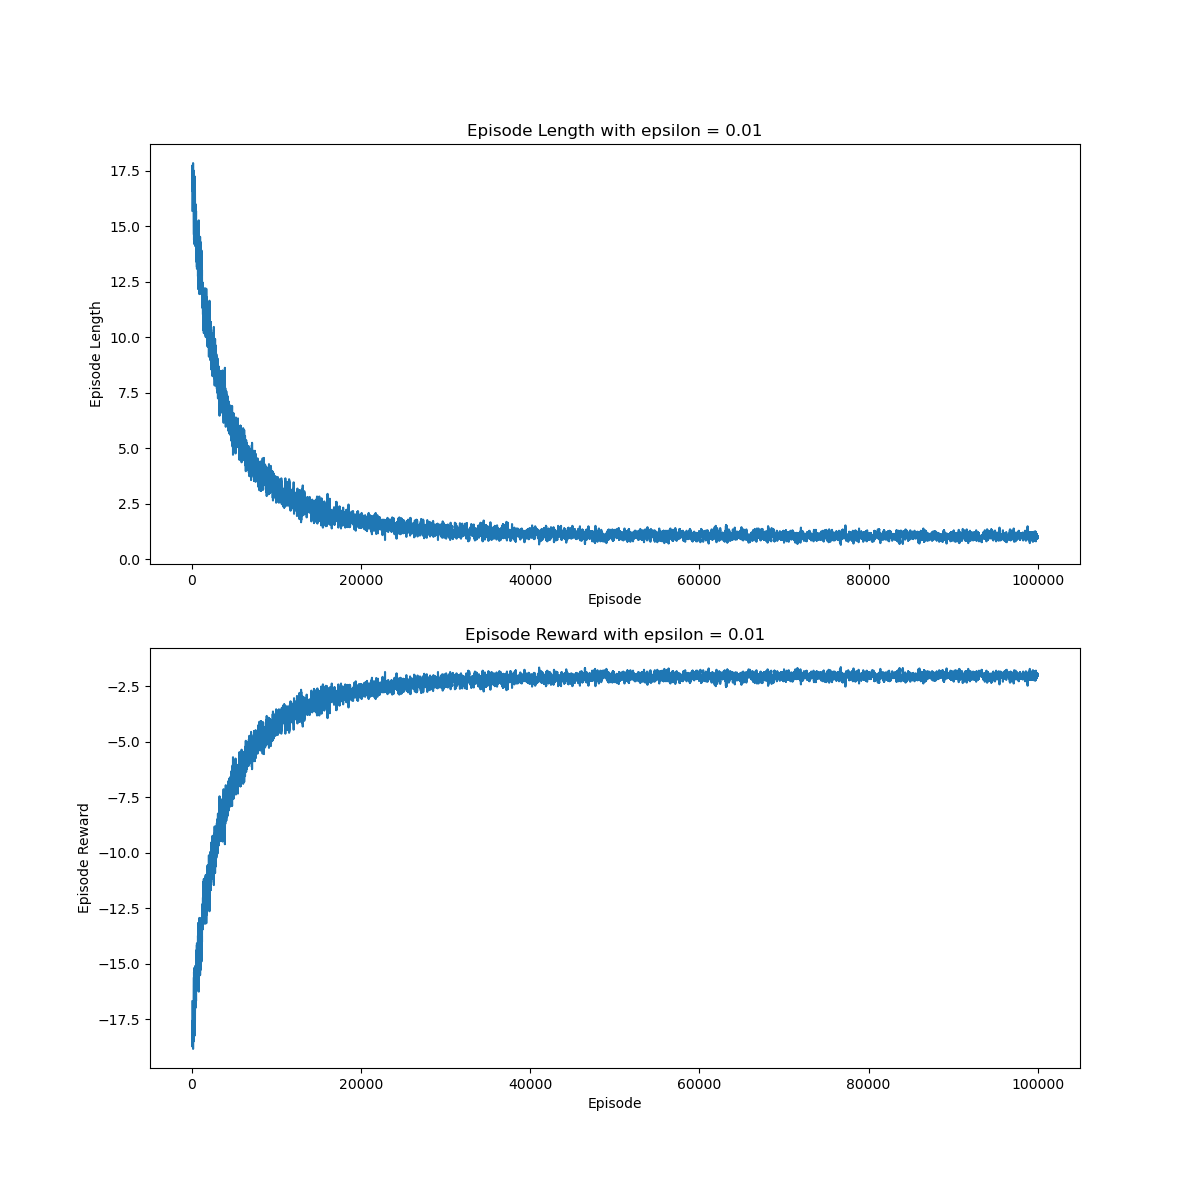
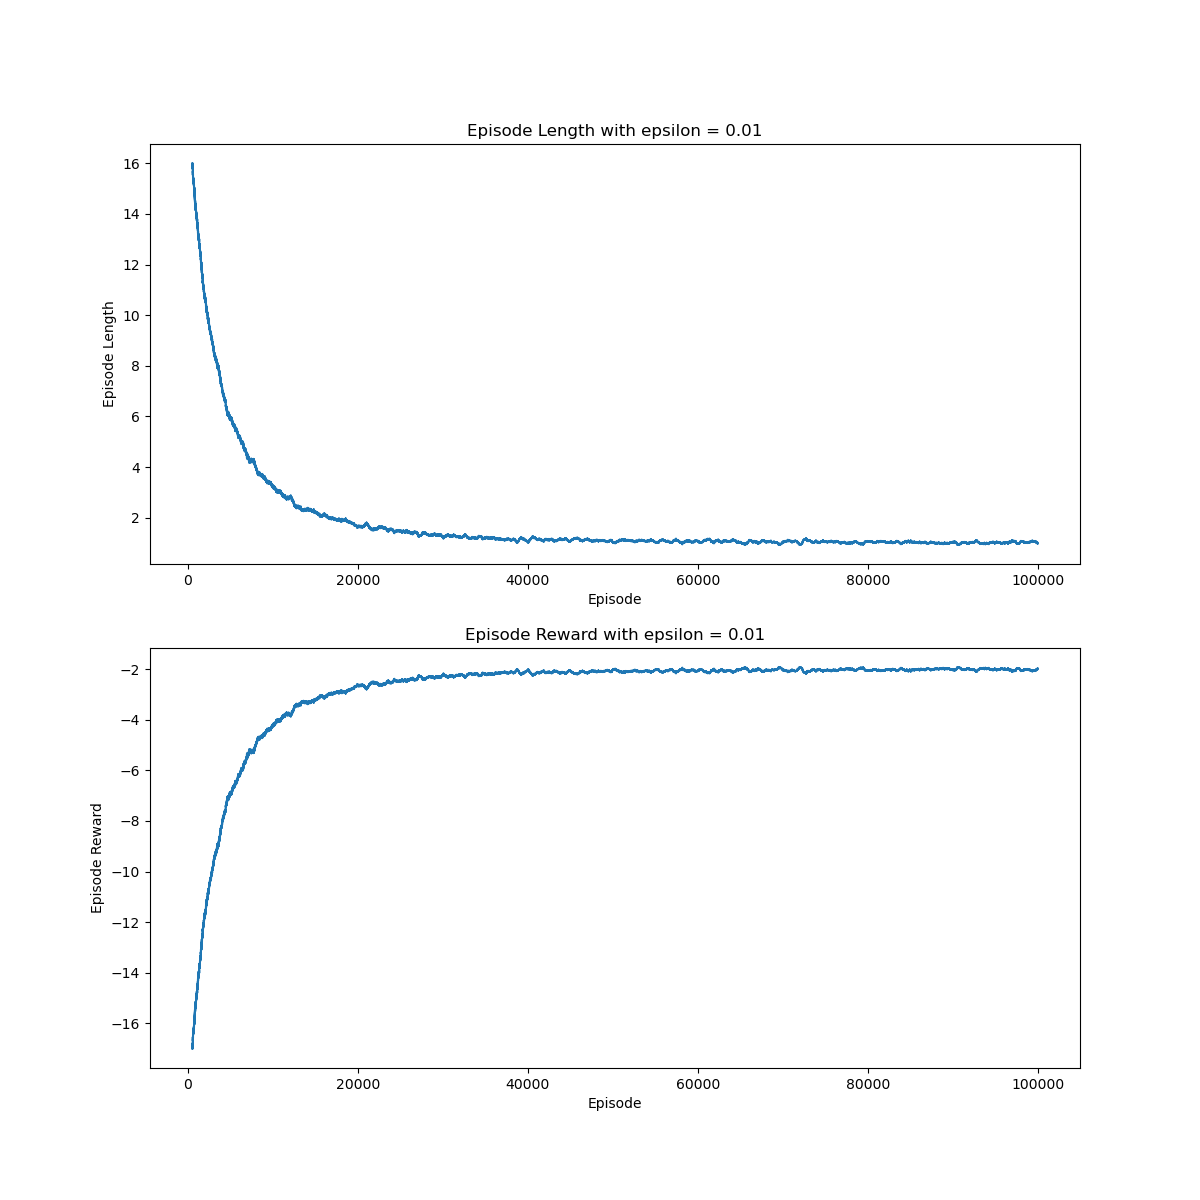
Update rolling average

diff --git a/projects/rl-an-intro/td.py b/projects/rl-an-intro/td.py
@@ -200,7 +200,7 @@ def render(lengths: defaultdict, rewards: defaultdict, epsilon: float,
 
 if __name__ == '__main__':
 
-    rolling_window = 50
+    rolling_window = 500
     alphas = [.5, .1, .05, .01, .05, .001]
     epsilons = [.5, .1, .01, .05, .001]
     n_trajectories = 100000

diff --git a/projects/rl-an-intro/README.md b/projects/rl-an-intro/README.md
@@ -339,7 +339,7 @@ State-action value (Q) prediction using $\epsilon=.5$:
  [ 0.        ,  0.        ,  0.        ,  0.        ]]
 ```
 
-![](images/sarsa_0p5.png "Sarsa, epsilon=.5")
+![](images/sarsa_0p5.png "Sarsa, epsilon=.5 (500 episode rolling average)")
 
 State-action value (Q) prediction using $\epsilon=.1$:
 ```
@@ -361,7 +361,7 @@ State-action value (Q) prediction using $\epsilon=.1$:
  [ 0.        ,  0.        ,  0.        ,  0.        ]]
 ```
 
-![](images/sarsa_0p1.png "Sarsa, epsilon=.1")
+![](images/sarsa_0p1.png "Sarsa, epsilon=.1 (500 episode rolling average)")
 
 State-action value (Q) prediction using $\epsilon=.01$:
 ```
@@ -384,7 +384,7 @@ State-action value (Q) prediction using $\epsilon=.01$:
 
 ```
 
-![](images/sarsa_0p01.png "Sarsa, epsilon=.01")
+![](images/sarsa_0p01.png "Sarsa, epsilon=.01 (500 episode rolling average)")
 
 State-action value (Q) prediction using $\epsilon=.001$:
 ```
@@ -406,7 +406,7 @@ State-action value (Q) prediction using $\epsilon=.001$:
  [ 0.        ,  0.        ,  0.        ,  0.        ]]
 ```
 
-![](images/sarsa_0p001.png "Sarsa, epsilon=.001")
+![](images/sarsa_0p001.png "Sarsa, epsilon=.001 (500 episode rolling average)")
 
 ### Q-learning
 
@@ -433,7 +433,7 @@ State-action value (Q) prediction using $\epsilon=.5$:
  [ 0.        ,  0.        ,  0.        ,  0.        ]]
 ```
 
-![](images/q_learning_0p5.png "Q-learning, epsilon=.5")
+![](images/q_learning_0p5.png "Q-learning, epsilon=.5 (500 episode rolling average)")
 
 State-action value (Q) prediction using $\epsilon=.1$:
 
@@ -456,7 +456,7 @@ State-action value (Q) prediction using $\epsilon=.1$:
  [ 0.        ,  0.        ,  0.        ,  0.        ]]
 ```
 
-![](images/q_learning_0p1.png "Q-learning, epsilon=.1")
+![](images/q_learning_0p1.png "Q-learning, epsilon=.1 (500 episode rolling average)")
 
 State-action value (Q) prediction using $\epsilon=.01$:
 
@@ -479,7 +479,7 @@ State-action value (Q) prediction using $\epsilon=.01$:
  [ 0.        ,  0.        ,  0.        ,  0.        ]]
 ```
 
-![](images/q_learning_0p01.png "Q-learning, epsilon=.01")
+![](images/q_learning_0p01.png "Q-learning, epsilon=.01 (500 episode rolling average)")
 
 State-action value (Q) prediction using $\epsilon=.001$:
 
@@ -502,13 +502,13 @@ State-action value (Q) prediction using $\epsilon=.001$:
  [ 0.        ,  0.        ,  0.        ,  0.        ]]
 ```
 
-![](images/q_learning_0p001.png "Q-learning, epsilon=.001")
+![](images/q_learning_0p001.png "Q-learning, epsilon=.001 (500 episode rolling average)")
 
 ### Cliff Walking
 
 #### Sarsa vs Q-learning
 
-##### alpha=.5, epsilon=.1, rolling average=25
+##### alpha=.5, epsilon=.1, episode rolling average=25
 
 ##### Sarsa
 
